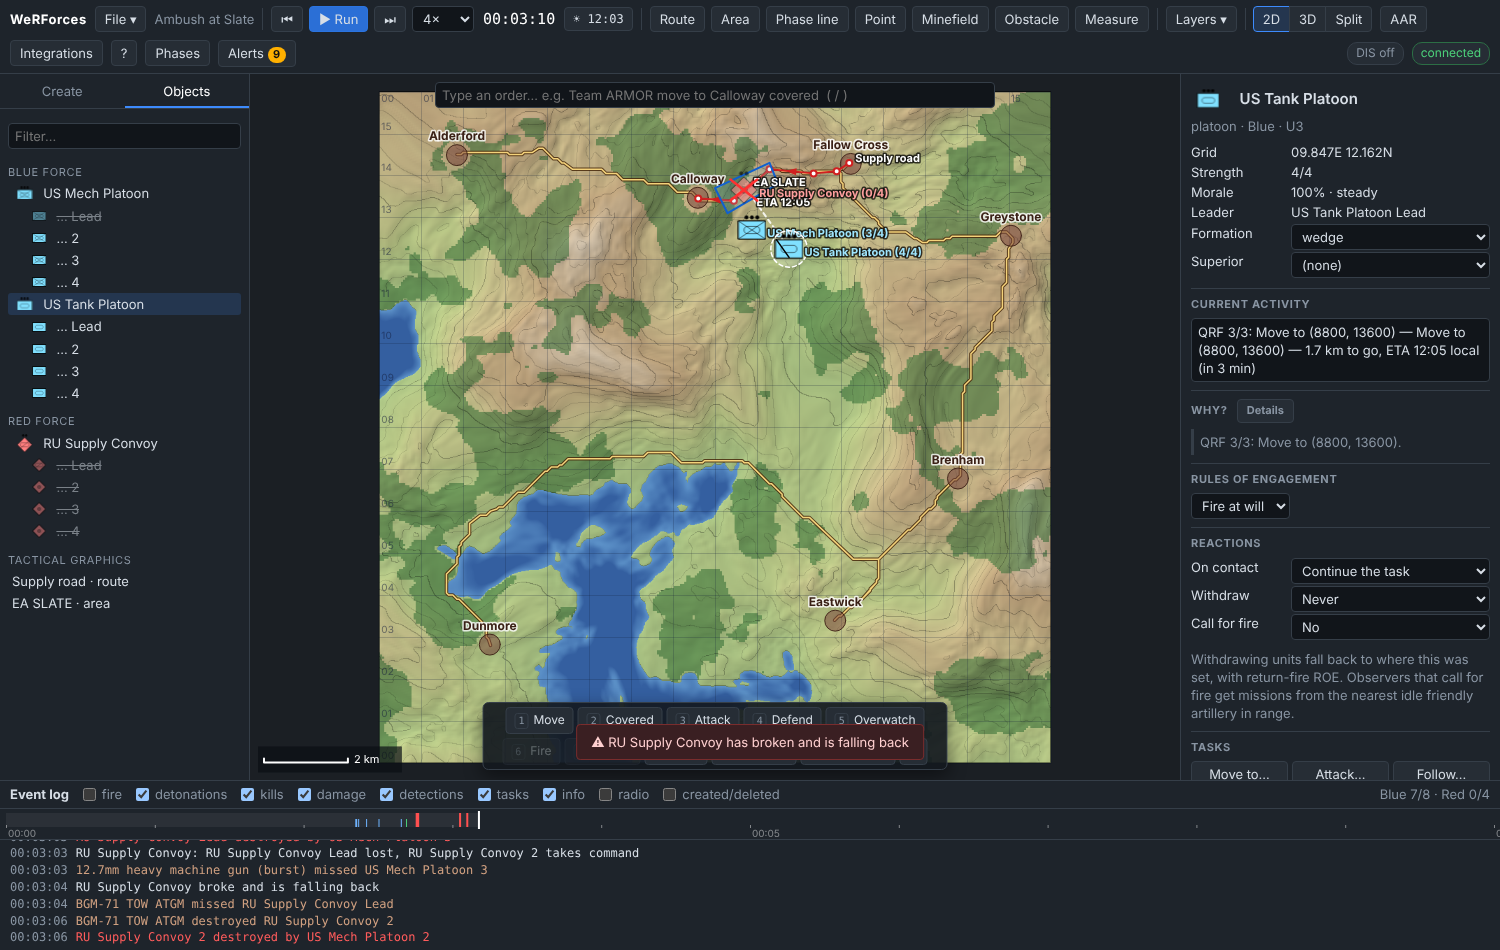
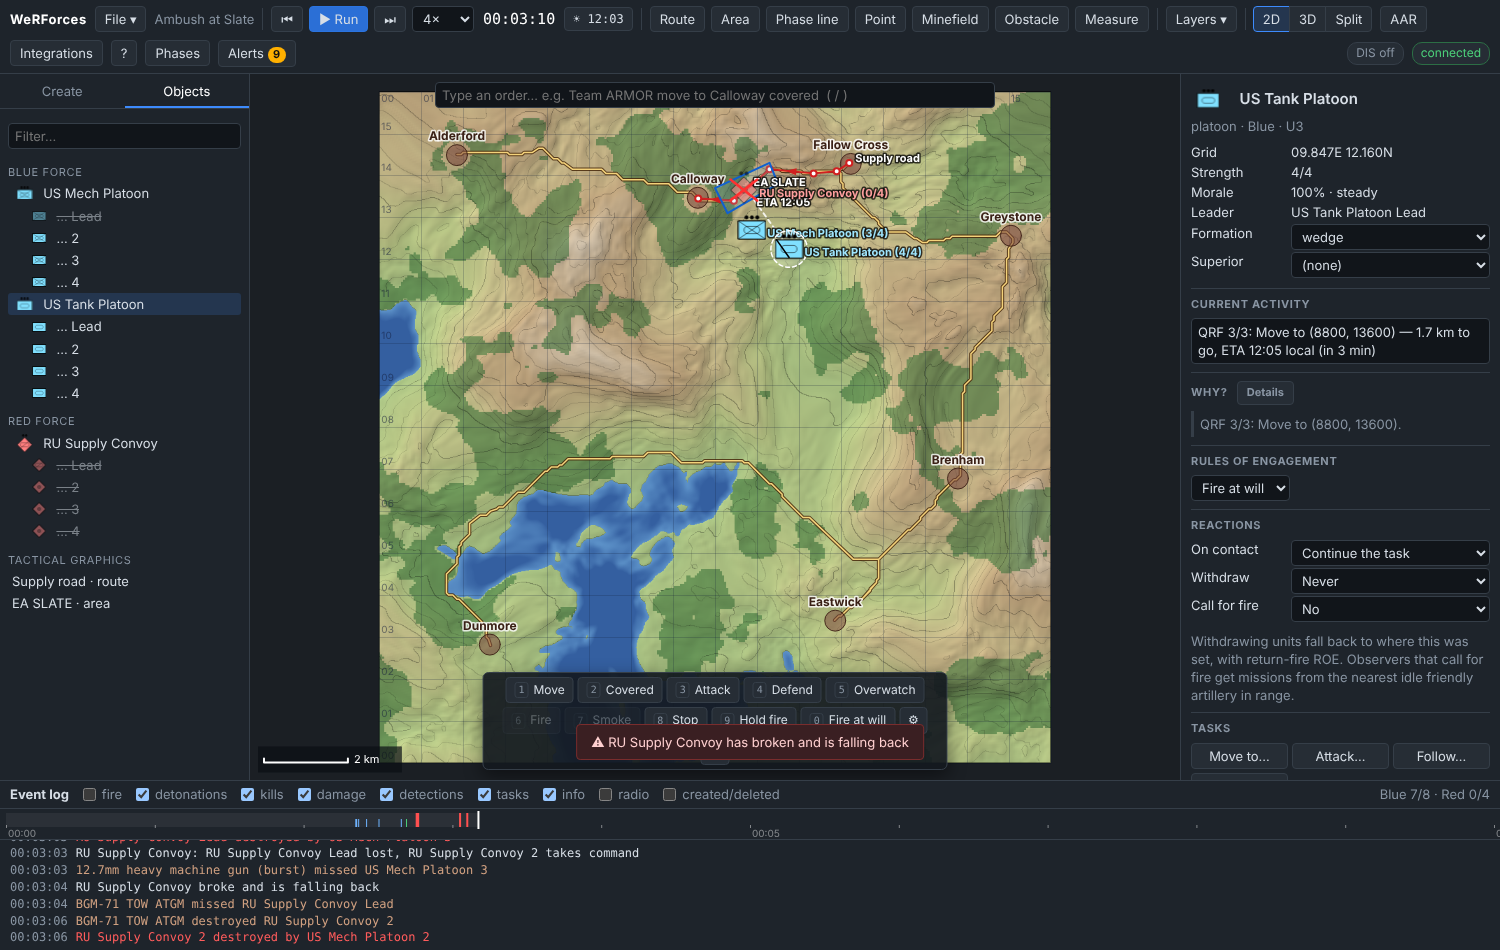
Tutorials 2 and 15: one-step settings undo, the quick-task bar's dock button
Claude-Session: https://claude.ai/code/session_019S1D5WkPWw8YDuwARok2oj

Changed region(s): [[0.7973, 0.3358, 1.0, 0.8242], [0.3067, 0.7021, 0.644, 0.7632]]

diff --git a/docs/tutorials/15-command-tactics-and-analysis.md b/docs/tutorials/15-command-tactics-and-analysis.md
@@ -82,13 +82,12 @@ choose **Defend here**.
 
 Then give the Red platoons one order together:
 
-1. Click **RU Tank Platoon** in the **Objects** tab. Then, with the whole map
-   in view, **Shift+click** the RU Mech Platoon's symbol on the map, just east
-   of the tank platoon's. Zoomed out this far, the map draws each platoon as one
+1. With the whole map in view, click the RU Tank Platoon and **Shift+click** the
+   RU Mech Platoon. Zoomed out this far, the map draws each platoon as one
    symbol, so a click picks the platoon. (Zoomed in, it picks a single
-   vehicle.) The quick-task bar at the bottom of the map can cover the tank
-   platoon's symbol, which is why you pick that one from the tree; if it covers
-   both, drag the map up a little.
+   vehicle.) With the company still selected, the quick-task bar at the bottom
+   of the map may cover the Red platoons: press **⇅** on the bar to move it to
+   the top of the map.
 2. Zoom in on **12.45E 7.4N** until the scale bar reads 200 m, and right-click
    there, on open ground. Zoomed out, that point is under the company's symbol
    and the menu offers to attack it instead.
@@ -250,15 +249,14 @@ curl -X POST localhost:8080/api/v1/scenario/undo -H 'Content-Type: application/j
 ```
 
 ```json
-{"undo":10,"redo":1,"time":0}
+{"undo":8,"redo":1,"time":0}
 ```
 
 That response came from a fresh server just after the setup above. The undo
 took back the last edit, the group order to the two Red platoons: a group order
-is a single edit, so one undo takes back the orders to every unit in it. 10
-earlier edits remain, starting with **File → New scenario** (applying the
-simulation settings counts as three). MCP's `manage_scenario` has `undo` and
-`redo` actions.
+is a single edit, so one undo takes back the orders to every unit in it. 8
+earlier edits remain, starting with **File → New scenario**. MCP's
+`manage_scenario` has `undo` and `redo` actions.
 
 ## 7. Measure
 
